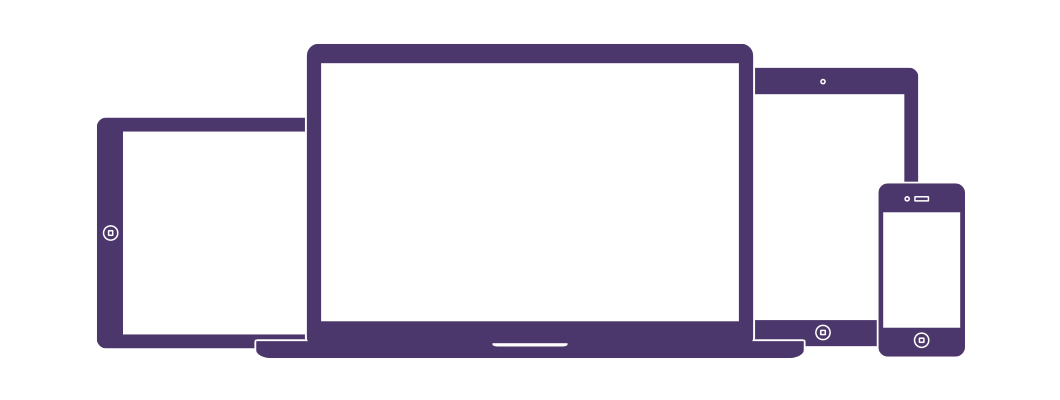
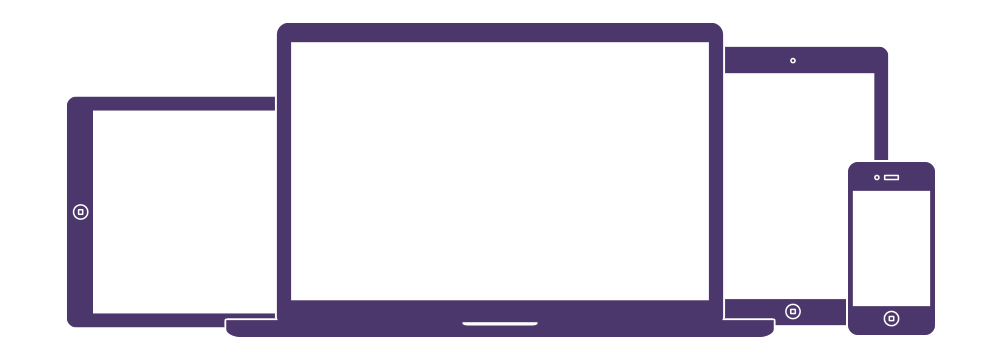
updates to homepage

Changed region(s): [[0.062, 0.0611, 0.961, 0.9472]]

diff --git a/docs/index.html b/docs/index.html
@@ -32,7 +32,7 @@ title: Bootstrap
       <div class="col-sm-4">
         <img src="assets/img/devices.png" alt="Responsive across devices" class="img-responsive">
         <h3>One framework, every device.</h3>
-        <p>Bootstrap easily and efficiently scales your project from phones to tablets to desktops with a single CSS file.</p>
+        <p>Bootstrap easily and efficiently scales your project with one code base, from phones to tablets to desktops.</p>
       </div>
       <div class="col-sm-4">
         <img src="assets/img/components.png" alt="Components" class="img-responsive">
@@ -43,7 +43,7 @@ title: Bootstrap
 
     <hr class="half-rule">
 
-    <p class="lead">Bootstrap is an open source project, hosted and maintained on GitHub.</p>
+    <p class="lead">Bootstrap is open source. It's hosted, developed, and maintained on GitHub.</p>
     <a href="{{ site.repo }}" class="btn btn-outline btn-lg">View the GitHub project</a>
   </div>
 </div>
